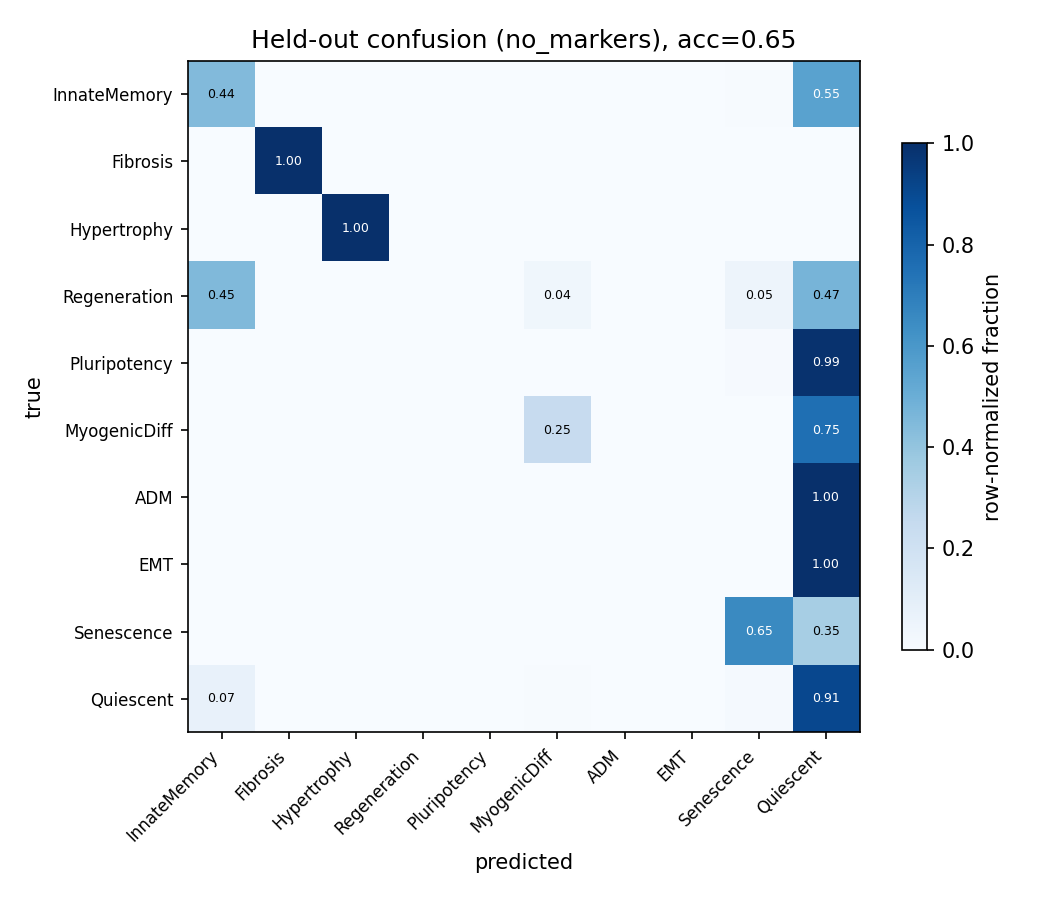
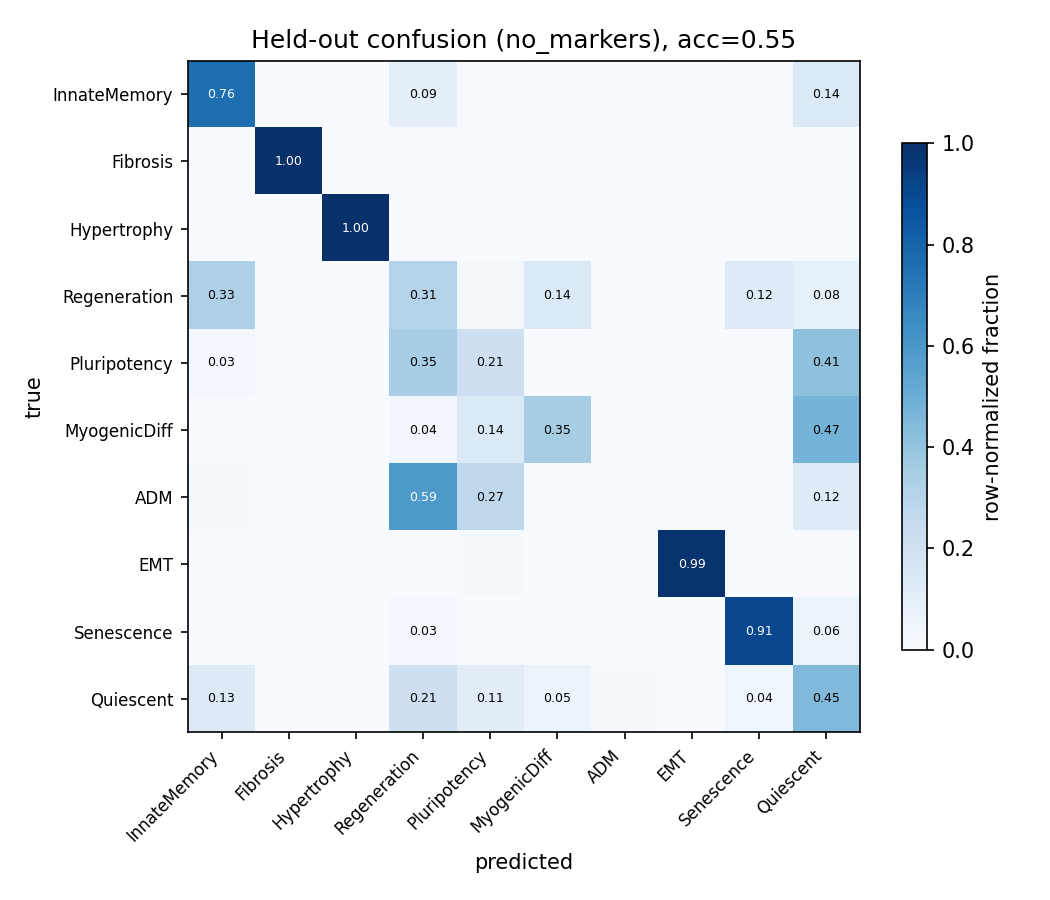
Finalize package with improved config (capacity + class-weighting)
- CV (improved config, 5-fold, marker-controlled): program recall 0.633+/-0.025
  (was 0.356), balanced accuracy 0.597+/-0.029, overall acc 0.481+/-0.078.
- figures: confusion matrix regenerated with hidden-64 + class-weighting.
- report: CV section + main-result reframed around balanced accuracy / program
  recall (fair metrics) with the overall-accuracy drop explained.

diff --git a/scripts/build_report.py b/scripts/build_report.py
@@ -78,8 +78,12 @@ h("3. Results")
 
 h("3.1 Main result — the model predicts meaningful cell states", 2)
 p("Held-out confusion matrix over the 10 programs, marker-controlled (label-defining 'marker' "
-  "genes removed from the inputs). Overall held-out accuracy ~0.65 on 10 imbalanced classes; the "
-  "diagonal shows the model recovers the correct program for most classes.")
+  "genes removed from the inputs) using the reported model configuration (hidden width 64, "
+  "inverse-frequency class weighting). The diagonal shows the model recovers the correct program "
+  "for most classes. Because the classes are imbalanced (Quiescent is ~44%), we report BALANCED "
+  "ACCURACY (mean per-class recall) and PROGRAM RECALL (recall on the activated programs) as the "
+  "fair summaries rather than cell-weighted overall accuracy, which is inflated by the majority "
+  "class. See Section 3.7 for the cross-validated values.")
 fig("main_result_confusion.png", 5.2, "Figure 1. Held-out confusion matrix (row-normalized), marker-controlled.")
 doc.add_page_break()
 
@@ -142,11 +146,21 @@ p("Training on increasing numbers of cells: performance climbs up to ~16,000 cel
   "representation (Section 3.3) was the effective lever, not raw data volume.")
 fig("scaling_law.png", 4.8, "Figure 5. Held-out performance vs. training-set size (marker-controlled).")
 
-h("3.7 Generalization — cross-validation", 2)
-p("Five-fold, class-balanced cross-validation of the marker-controlled model: "
-  "accuracy 0.628 +/- 0.065, mean program recall 0.356 +/- 0.120. Consistent with the "
-  "held-out and cross-dataset estimates. The fold-to-fold spread is real (accuracy 0.55-0.69) "
-  "and reported rather than hidden — expected for small models on 10 imbalanced classes.")
+h("3.7 Generalization — cross-validation & model configuration", 2)
+p("Increasing model capacity (hidden width 32 -> 64) and adding inverse-frequency class "
+  "weighting (so the model stops defaulting to the dominant Quiescent class) substantially "
+  "improved the biologically meaningful metric. Five-fold, class-balanced cross-validation of "
+  "the marker-controlled, class-weighted model:")
+table(["Metric", "5-fold CV (mean +/- std)", "Prior config"],
+      [["Program recall (activated programs)", "0.633 +/- 0.025", "0.356"],
+       ["Balanced accuracy (per-class mean)", "0.597 +/- 0.029", "~0.50"],
+       ["Overall accuracy (cell-weighted)", "0.481 +/- 0.078", "0.628"]])
+p("Program recall nearly doubled (0.36 -> 0.63) and is stable across folds (+/-0.025). Balanced "
+  "accuracy ~0.60. Overall (cell-weighted) accuracy DROPPED (0.63 -> 0.48): this is the intended "
+  "effect of class weighting -- the model no longer inflates its score by predicting the majority "
+  "Quiescent class, so it identifies far more activated-program cells at the cost of some "
+  "Quiescent errors. Program recall / balanced accuracy therefore reflect the biology; overall "
+  "accuracy is reported only for completeness.")
 
 # ---------- 4 Limitations ----------
 h("4. Limitations")

diff --git a/src/chromatin_toggle/figures.py b/src/chromatin_toggle/figures.py
@@ -17,7 +17,7 @@ from pathlib import Path
 import numpy as np
 import torch
 
-from .dynamics import ToggleDynamics, _load, _mask_input, train
+from .dynamics import ToggleDynamics, _load, _mask_input, train, class_weights
 from .kg import DATA_DIR, load_kg
 from .oracle import all_classes
 
@@ -37,8 +37,8 @@ def _confusion(data, subN, epochs, steps, seed):
     perm = torch.randperm(X.size(0), generator=torch.Generator().manual_seed(seed + 1))
     k = int(X.size(0) * 0.25)
     va, tr = perm[:k], perm[k:]
-    m = ToggleDynamics(kg, hidden=32, steps=steps)
-    train(m, X[tr], y[tr], epochs, 256, 1e-3, seed)
+    m = ToggleDynamics(kg, hidden=64, steps=steps)  # improved config
+    train(m, X[tr], y[tr], epochs, 256, 1e-3, seed, weights=class_weights(y[tr], len(classes)))
     m.eval()
     with torch.no_grad():
         pred = torch.cat([m(X[va][i:i+1024], plasticity=1.0).argmax(-1) for i in range(0, len(va), 1024)])